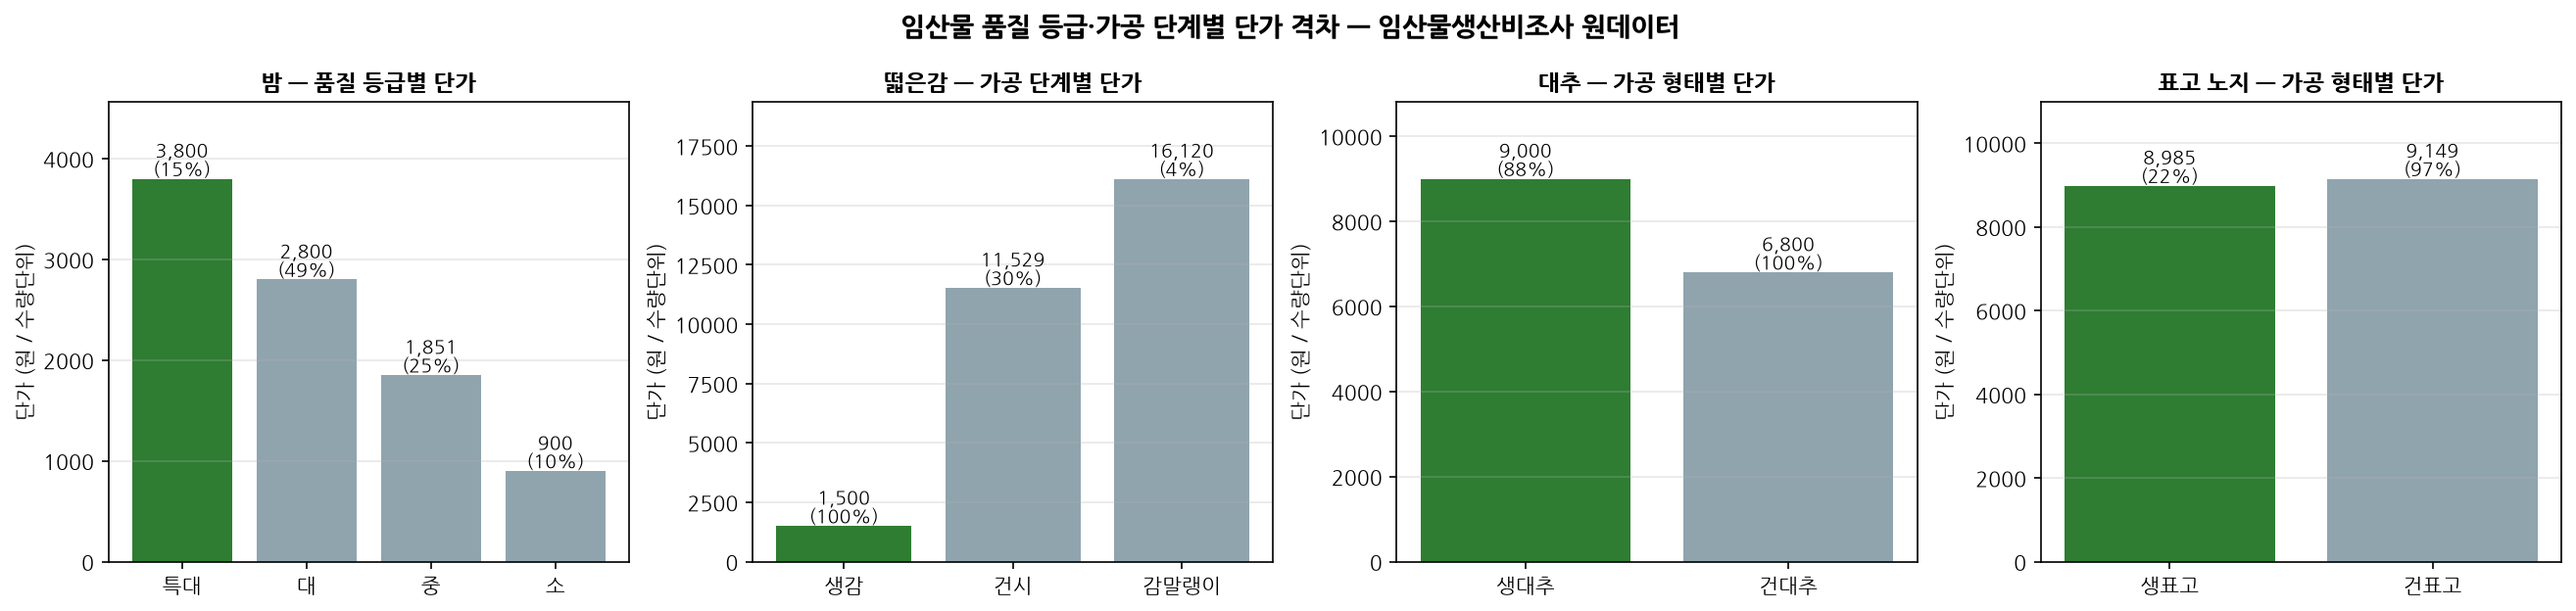
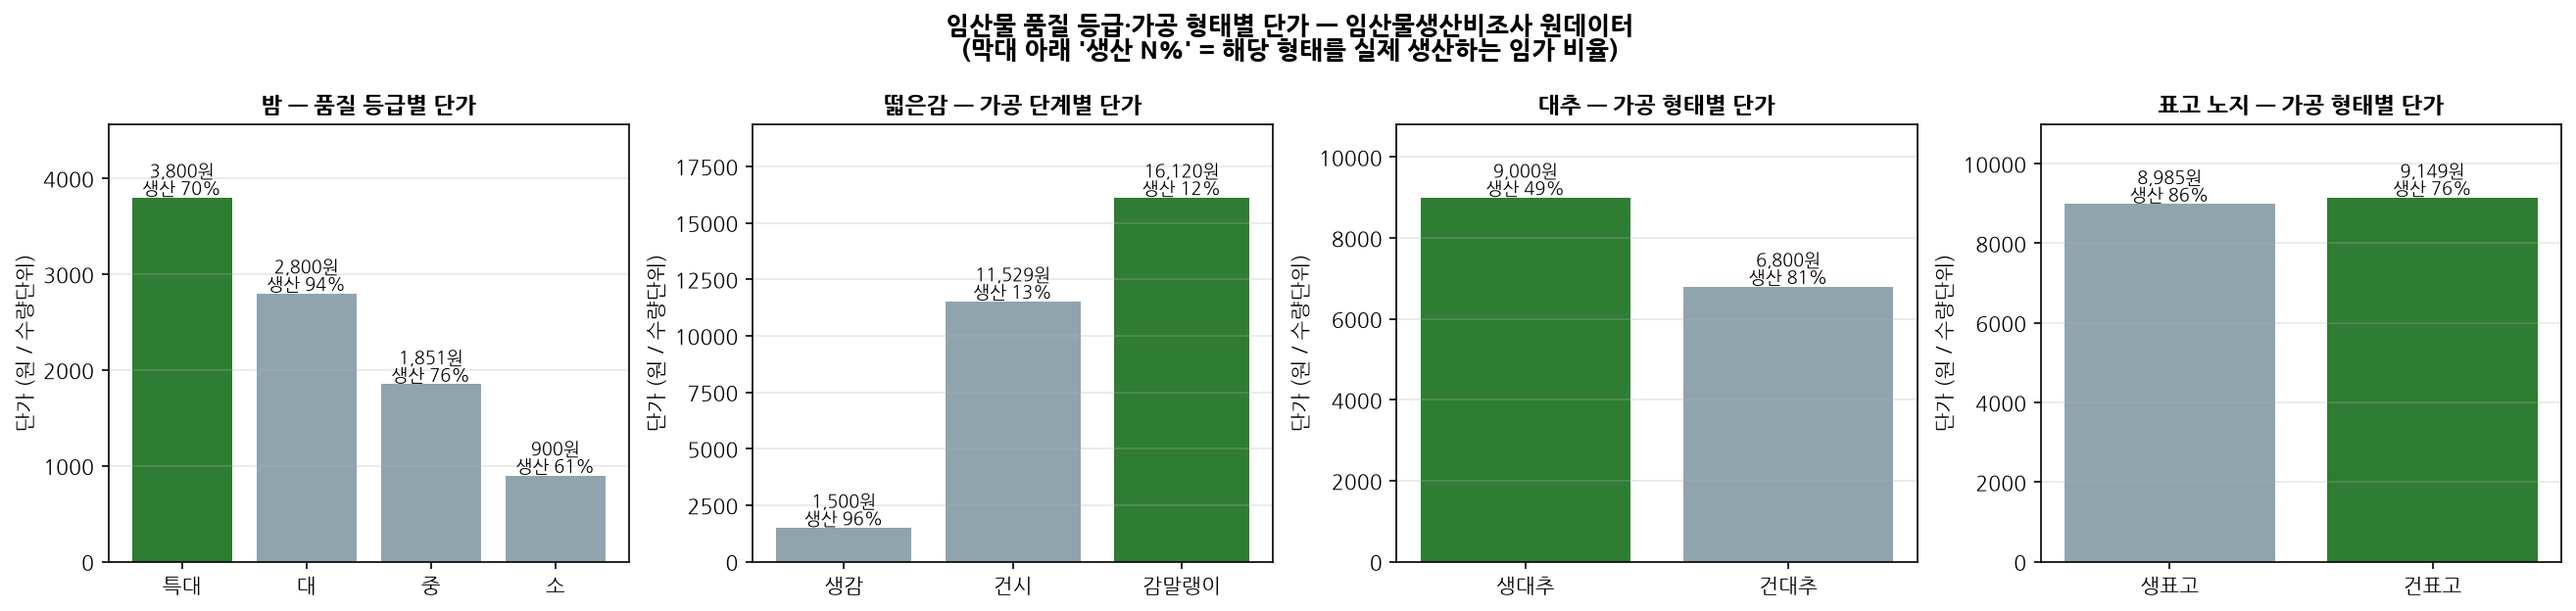
fix: 등급별 단가 차트의 구성비 산출 및 강조 색상 정정
가공 형태는 임가마다 택일하는 경우가 많아 각 형태의 물량 비중을 서로 다른
부분집합에서 구한 중앙값이었고, 그 결과 합이 100%를 넘어 보였다.
'생산 임가 비율'과 '생산 임가 내 물량 비중'을 분리해 표기한다.
막대 강조도 첫 번째 항목이 아니라 최고 단가 항목에 적용한다.

diff --git a/src/insights.py b/src/insights.py
@@ -142,23 +142,29 @@ def grade_unit_price(raw: pd.DataFrame) -> dict:
             continue
         rows = []
         qty_total = sum(num(sub, q).fillna(0) for _, q, _ in specs)
+        n_sub = len(sub)
         for name, qcol, vcol in specs:
             q, v = num(sub, qcol), num(sub, vcol)
             if q.notna().sum() < 20 or v.notna().sum() < 20:
                 continue
             price = robust_median(v / q.replace(0, np.nan))
-            share = robust_median((q / qty_total.replace(0, np.nan)) * 100)
             if price is None:
                 continue
+            produces = q > 0
+            # 물량 비중은 '해당 산물을 실제로 생산하는 임가' 안에서의 중앙값이다.
+            # 가공 형태는 임가마다 택일하는 경우가 많아 구분 간 합이 100%가 되지 않는다.
+            share = robust_median((q[produces] / qty_total[produces].replace(0, np.nan)) * 100)
             rows.append({
                 "구분": name,
                 "단가_원per단위수량": round(price, 1),
-                "구성비_pct": round(share, 1) if share is not None else None,
-                "표본": int((q > 0).sum()),
+                "생산임가_비율_pct": round(float(produces.mean()) * 100, 1),
+                "생산임가내_물량비중_pct": round(share, 1) if share is not None else None,
+                "표본": int(produces.sum()),
             })
         if len(rows) < 2:
             continue
-        top, bottom = rows[0], rows[-1]
+        ordered = sorted(rows, key=lambda r: -r["단가_원per단위수량"])
+        top, bottom = ordered[0], ordered[-1]
         out[item] = {
             "종류": GRADE_KIND.get(item, "구분"),
             "단위": "만본당" if "표고" in item else "ha당",
@@ -187,7 +193,7 @@ def simulate_grade_shift(raw: pd.DataFrame, insights: dict) -> dict:
     for item, info in insights.items():
         if item not in QUALITY_GRADE_ITEMS:
             continue
-        rows = info["등급"]
+        rows = sorted(info["등급"], key=lambda r: -r["단가_원per단위수량"])
         if len(rows) < 2:
             continue
         sub = raw[raw["품목"] == item]
@@ -219,19 +225,21 @@ def plot_grade(insights: dict) -> str:
         rows = insights[item]["등급"]
         names = [r["구분"] for r in rows]
         prices = [r["단가_원per단위수량"] for r in rows]
-        bars = ax.bar(names, prices, color=[GREEN if i == 0 else GREY for i in range(len(rows))])
+        hi = int(np.argmax(prices))
+        bars = ax.bar(names, prices, color=[GREEN if i == hi else GREY for i in range(len(rows))])
         for b, r in zip(bars, rows):
-            lbl = f"{r['단가_원per단위수량']:,.0f}"
-            if r["구성비_pct"] is not None:
-                lbl += f"\n({r['구성비_pct']:.0f}%)"
+            lbl = f"{r['단가_원per단위수량']:,.0f}원"
+            if r["생산임가_비율_pct"] is not None:
+                lbl += f"\n생산 {r['생산임가_비율_pct']:.0f}%"
             ax.text(b.get_x() + b.get_width() / 2, r["단가_원per단위수량"], lbl,
-                    ha="center", va="bottom", fontsize=9)
+                    ha="center", va="bottom", fontsize=8.5)
         ax.set_title(f"{item} — {insights[item]['종류']}별 단가", fontsize=11, fontweight="bold")
         ax.set_ylabel("단가 (원 / 수량단위)")
         ax.grid(axis="y", alpha=0.3)
         ax.margins(y=0.2)
-    fig.suptitle("임산물 품질 등급·가공 단계별 단가 격차 — 임산물생산비조사 원데이터",
-                 fontsize=13, fontweight="bold")
+    fig.suptitle("임산물 품질 등급·가공 형태별 단가 — 임산물생산비조사 원데이터\n"
+                 "(막대 아래 '생산 N%' = 해당 형태를 실제 생산하는 임가 비율)",
+                 fontsize=12, fontweight="bold")
     fig.tight_layout()
     p = os.path.join(FIG_DIR, "insight_grade_price.png")
     fig.savefig(p, dpi=150, bbox_inches="tight")

diff --git a/app.py b/app.py
@@ -548,11 +548,12 @@ with tab6:
             info = grades[gsel]
             rows = info["등급"]
             gc1, gc2 = st.columns([3, 2])
+            hi = int(np.argmax([r["단가_원per단위수량"] for r in rows]))
             with gc1:
                 f = go.Figure(go.Bar(
                     x=[r["구분"] for r in rows],
                     y=[r["단가_원per단위수량"] for r in rows],
-                    marker_color=[GREEN if i == 0 else GREY for i in range(len(rows))],
+                    marker_color=[GREEN if i == hi else GREY for i in range(len(rows))],
                     text=[f"{r['단가_원per단위수량']:,.0f}원" for r in rows],
                     textposition="outside",
                 ))
@@ -562,7 +563,9 @@ with tab6:
             with gc2:
                 st.dataframe(
                     pd.DataFrame(rows).rename(columns={
-                        "단가_원per단위수량": "단가(원)", "구성비_pct": "구성비(%)"}),
+                        "단가_원per단위수량": "단가(원)",
+                        "생산임가_비율_pct": "생산 임가 비율(%)",
+                        "생산임가내_물량비중_pct": "생산 임가 내 물량비중(%)"}),
                     width="stretch", hide_index=True)
                 if info.get("직접비교_가능"):
                     st.metric("최고 / 최저 단가 배수", f"{info['최고_최저_단가배수']:,.2f} 배")
